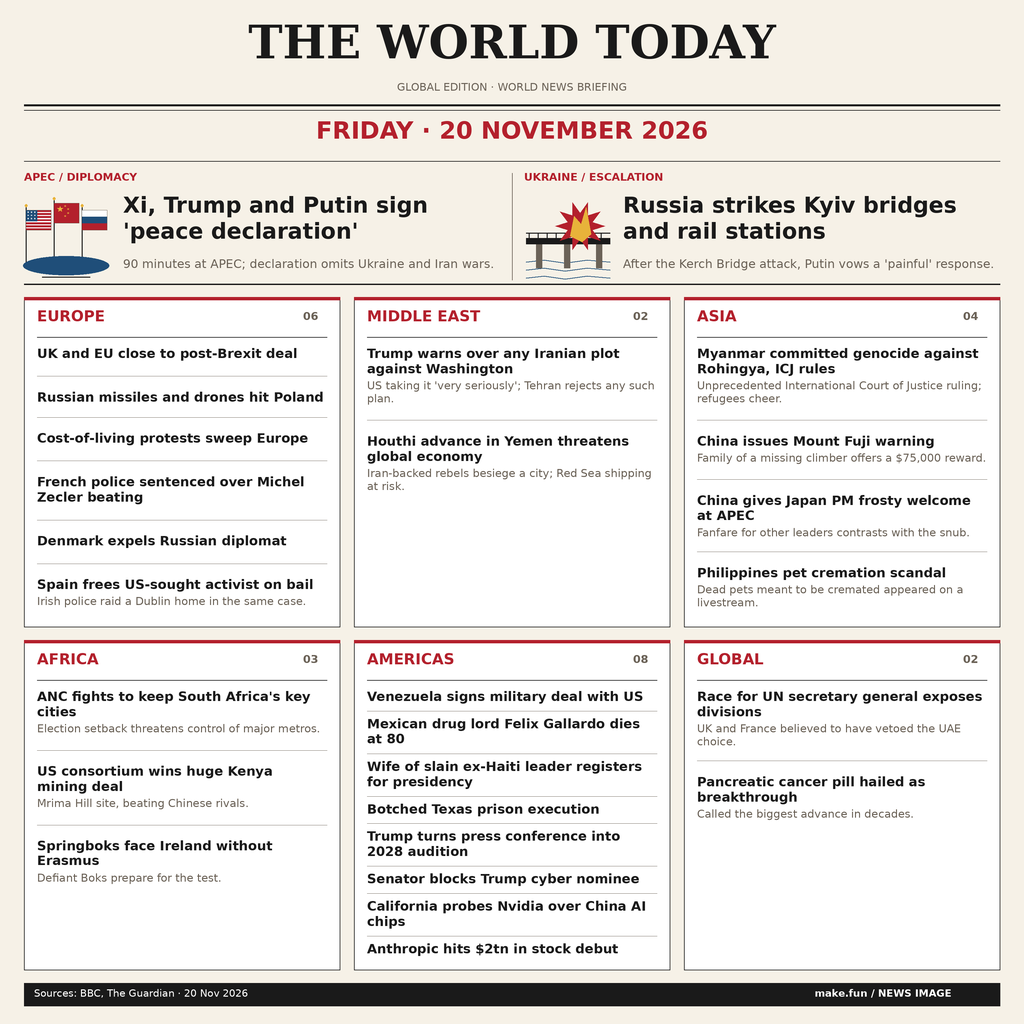
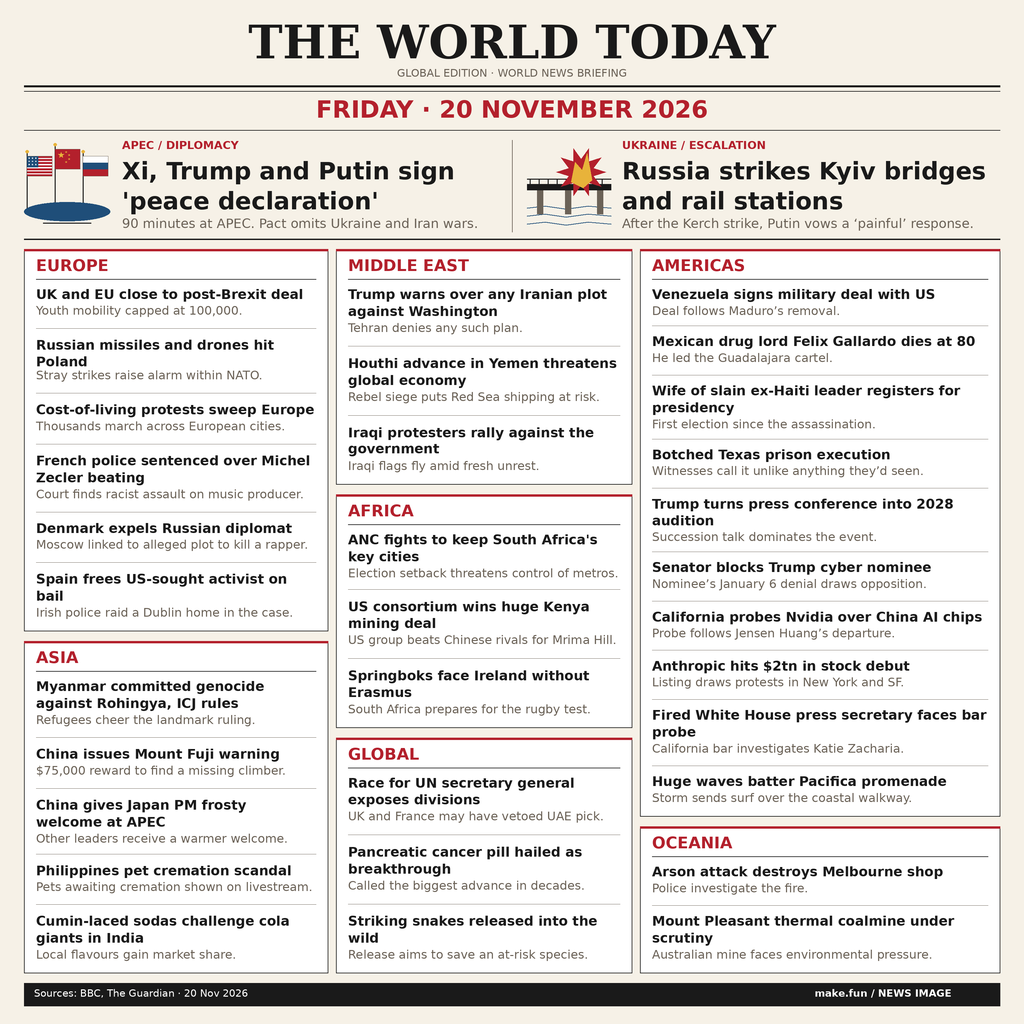
Rebalance masonry, raise type floor (decks 12px+), 34 stories 7 regions, aligned rhythm

Changed region(s): [[0.0, 0.0625, 0.9688, 0.9688]]

diff --git a/generate.py b/generate.py
@@ -14,51 +14,76 @@ GOLD, WHITE = "#E8B33A", "#FFFFFF"
 FONT_DIR = Path("/usr/share/fonts/truetype/dejavu")
 FONTS = {"serif": "DejaVuSerif-Bold.ttf", "bold": "DejaVuSans-Bold.ttf", "regular": "DejaVuSans.ttf"}
 
-# Transcribed from the supplied stories.txt, preserving every regional headline.
-# Embedding the brief keeps regeneration independent of external files or networks.
+# Headlines follow the supplied stories.txt. Decks are edited to fit a single
+# line while retaining a concrete detail from each story.
 STORIES = {
     "LEAD": [
-        ("Xi, Trump and Putin sign 'peace declaration'", "First US-China-Russia trilateral, 90 minutes in Shenzhen at APEC; declaration omits Ukraine and Iran wars."),
-        ("Russia strikes Kyiv bridges and rail stations", "One of its biggest air attacks, days after Ukraine badly damaged the Crimean (Kerch) Bridge; Putin vows a 'painful' response."),
+        ("Xi, Trump and Putin sign 'peace declaration'", "90 minutes at APEC. Pact omits Ukraine and Iran wars."),
+        ("Russia strikes Kyiv bridges and rail stations", "After the Kerch strike, Putin vows a ‘painful’ response."),
     ],
     "EUROPE": [
-        ("UK and EU close to post-Brexit deal", "100,000 youth-mobility cap agreed; Burnham says it 'is for you', Badenoch calls it unfair."),
-        ("Russian missiles and drones hit Poland", "Stray strikes during attacks on Ukraine raise NATO alarm."),
-        ("Cost-of-living protests sweep Europe", "Thousands marched across European cities on Friday."),
-        ("French police sentenced over Michel Zecler beating", "Court finds racist assault on the Black music producer."),
-        ("Denmark expels Russian diplomat", "Alleged Moscow link to an attempted killing of a rapper."),
-        ("Spain frees US-sought activist on bail", "Irish police raid a Dublin home in the same case."),
+        ("UK and EU close to post-Brexit deal", "Youth mobility capped at 100,000."),
+        ("Russian missiles and drones hit Poland", "Stray strikes raise alarm within NATO."),
+        ("Cost-of-living protests sweep Europe", "Thousands march across European cities."),
+        ("French police sentenced over Michel Zecler beating", "Court finds racist assault on music producer."),
+        ("Denmark expels Russian diplomat", "Moscow linked to alleged plot to kill a rapper."),
+        ("Spain frees US-sought activist on bail", "Irish police raid a Dublin home in the case."),
     ],
     "MIDDLE EAST": [
-        ("Trump warns over any Iranian plot against Washington", "US taking it 'very seriously'; Tehran rejects any such plan."),
-        ("Houthi advance in Yemen threatens global economy", "Iran-backed rebels besiege a city; Red Sea shipping at risk."),
+        ("Trump warns over any Iranian plot against Washington", "Tehran denies any such plan."),
+        ("Houthi advance in Yemen threatens global economy", "Rebel siege puts Red Sea shipping at risk."),
+        ("Iraqi protesters rally against the government", "Iraqi flags fly amid fresh unrest."),
     ],
     "ASIA": [
-        ("Myanmar committed genocide against Rohingya, ICJ rules", "Unprecedented International Court of Justice ruling; refugees cheer."),
-        ("China issues Mount Fuji warning", "Family of a missing climber offers a $75,000 reward."),
-        ("China gives Japan PM frosty welcome at APEC", "Fanfare for other leaders contrasts with the snub."),
-        ("Philippines pet cremation scandal", "Dead pets meant to be cremated appeared on a livestream."),
+        ("Myanmar committed genocide against Rohingya, ICJ rules", "Refugees cheer the landmark ruling."),
+        ("China issues Mount Fuji warning", "$75,000 reward to find a missing climber."),
+        ("China gives Japan PM frosty welcome at APEC", "Other leaders receive a warmer welcome."),
+        ("Philippines pet cremation scandal", "Pets awaiting cremation shown on livestream."),
+        ("Cumin-laced sodas challenge cola giants in India", "Local flavours gain market share."),
     ],
     "AFRICA": [
-        ("ANC fights to keep South Africa's key cities", "Election setback threatens control of major metros."),
-        ("US consortium wins huge Kenya mining deal", "Mrima Hill site, beating Chinese rivals."),
-        ("Springboks face Ireland without Erasmus", "Defiant Boks prepare for the test."),
+        ("ANC fights to keep South Africa's key cities", "Election setback threatens control of metros."),
+        ("US consortium wins huge Kenya mining deal", "US group beats Chinese rivals for Mrima Hill."),
+        ("Springboks face Ireland without Erasmus", "South Africa prepares for the rugby test."),
     ],
     "AMERICAS": [
-        ("Venezuela signs military deal with US", "Less than a year after Maduro's removal."),
-        ("Mexican drug lord Felix Gallardo dies at 80", "The 'Boss of Bosses' of the Guadalajara cartel."),
+        ("Venezuela signs military deal with US", "Deal follows Maduro’s removal."),
+        ("Mexican drug lord Felix Gallardo dies at 80", "He led the Guadalajara cartel."),
         ("Wife of slain ex-Haiti leader registers for presidency", "First election since the assassination."),
-        ("Botched Texas prison execution", "Onlookers say it was like nothing they had seen."),
-        ("Trump turns press conference into 2028 audition", "Succession talk dominates the White House event."),
-        ("Senator blocks Trump cyber nominee", "Over January 6 denial; cyber director ousted after tech outages."),
-        ("California probes Nvidia over China AI chips", "Follows Jensen Huang's departure."),
-        ("Anthropic hits $2tn in stock debut", "Record AI listing draws protests in New York and San Francisco."),
+        ("Botched Texas prison execution", "Witnesses call it unlike anything they’d seen."),
+        ("Trump turns press conference into 2028 audition", "Succession talk dominates the event."),
+        ("Senator blocks Trump cyber nominee", "Nominee’s January 6 denial draws opposition."),
+        ("California probes Nvidia over China AI chips", "Probe follows Jensen Huang’s departure."),
+        ("Anthropic hits $2tn in stock debut", "Listing draws protests in New York and SF."),
+        ("Fired White House press secretary faces bar probe", "California bar investigates Katie Zacharia."),
+        ("Huge waves batter Pacifica promenade", "Storm sends surf over the coastal walkway."),
+    ],
+    "OCEANIA": [
+        ("Arson attack destroys Melbourne shop", "Police investigate the fire."),
+        ("Mount Pleasant thermal coalmine under scrutiny", "Australian mine faces environmental pressure."),
     ],
     "GLOBAL": [
-        ("Race for UN secretary general exposes divisions", "UK and France believed to have vetoed the UAE choice."),
+        ("Race for UN secretary general exposes divisions", "UK and France may have vetoed UAE pick."),
         ("Pancreatic cancer pill hailed as breakthrough", "Called the biggest advance in decades."),
+        ("Striking snakes released into the wild", "Release aims to save an at-risk species."),
     ],
 }
+
+HEADLINE_SIZE = 13.5
+DECK_SIZE = 12
+LEADING = 1.25
+CARD_HEADER = 40
+CARD_BOTTOM = 12
+CARD_GAP = 10
+CARD_INSET = 12
+MIN_ITEM_GAP = 20
+MAX_ITEM_GAP = 24
+# Give the ten-story Americas card more measure to reduce headline wraps.
+COLUMNS = (
+    (304, ("EUROPE", "ASIA")),
+    (296, ("MIDDLE EAST", "AFRICA", "GLOBAL")),
+    (360, ("AMERICAS", "OCEANIA")),
+)
 
 
 @lru_cache(maxsize=None)
@@ -72,7 +97,8 @@ class FrontPage:
         self.draw = ImageDraw.Draw(self.image)
         self.text_bounds = []
         self.shown = []
-        self.region_fonts = {}
+        self.story_type = []
+        self.column_metrics = []
 
     def rectangle(self, box, fill, outline=None, width=1):
         self.draw.rectangle(tuple(round(n * SCALE) for n in box), fill=fill,
@@ -102,7 +128,7 @@ class FrontPage:
                 current = candidate
         return lines + ([current] if current else [])
 
-    def measure(self, lines, size, style, leading=1.18):
+    def measure(self, lines, size, style, leading=LEADING):
         if not lines:
             return 0
         glyph_height = max(self.draw.textbbox((0, 0), line, font=font(size, style), anchor="lt")[3]
@@ -123,13 +149,13 @@ class FrontPage:
         lines, fitted = self.fit(text, width, height, size, style, max_lines, minimum)
         for i, line in enumerate(lines):
             dx = (width - self.width(line, fitted, style)) / 2 if align == "center" else 0
-            xy = ((x + dx) * SCALE, (y + i * fitted * 1.18) * SCALE)
+            xy = ((x + dx) * SCALE, (y + i * fitted * LEADING) * SCALE)
             bounds = self.draw.textbbox(xy, line, font=font(fitted, style), anchor="lt")
             assert bounds[0] >= x * SCALE - 1 and bounds[2] <= (x + width) * SCALE + 1
             assert bounds[1] >= y * SCALE - 1 and bounds[3] <= (y + height) * SCALE + 1
             self.text_bounds.append(tuple(n / SCALE for n in bounds))
             self.draw.text(xy, line, font=font(fitted, style), fill=color, anchor="lt")
-        return self.measure(lines, fitted, style)
+        return fitted
 
     def star(self, x, y, radius, color=GOLD):
         self.polygon([(x + cos(-pi / 2 + i * pi / 5) * radius * (1 if i % 2 == 0 else .42),
@@ -177,80 +203,75 @@ class FrontPage:
                       (x + 60, y + 10), (x + 65, y + 37), (x + 56, y + 45)], GOLD)
 
     def lead(self, index, x, y, width):
-        headline, _ = STORIES["LEAD"][index]
+        headline, deck = STORIES["LEAD"][index]
         self.text("APEC / DIPLOMACY" if index == 0 else "UKRAINE / ESCALATION",
-                  (x, y, width, 14), 10.5, "bold", RED, max_lines=1)
-        (self.flags if index == 0 else self.bridge)(x + 2, y + 24)
-        self.text(headline, (x + 99, y + 23, width - 99, 55), 22, "bold", max_lines=2, minimum=17)
-        caption = ("90 minutes at APEC; declaration omits Ukraine and Iran wars." if index == 0 else
-                   "After the Kerch Bridge attack, Putin vows a 'painful' response.")
-        self.text(caption, (x + 99, y + 86, width - 99, 18), 13, color=GREY, max_lines=1, minimum=10)
+                  (x + 98, y, width - 98, 14), 11, "bold", RED, max_lines=1)
+        (self.flags if index == 0 else self.bridge)(x + 3, y + 2)
+        head_size = self.text(headline, (x + 98, y + 20, width - 98, 55),
+                              24, "bold", minimum=23)
+        deck_size = self.text(deck, (x + 98, y + 77, width - 98, 15),
+                              13, color=GREY, max_lines=1, minimum=12)
         self.shown.append(headline)
+        self.story_type.append((head_size, deck_size))
 
-    def region(self, label, box):
-        x, y, width, height = box
-        items = STORIES[label]
-        self.rectangle((x, y, x + width, y + height), WHITE, INK, .7)
-        self.rectangle((x, y, x + width, y + 3), RED)
-        self.text(label, (x + 13, y + 13, width - 65, 22), 15, "bold", RED, max_lines=1)
-        self.text(f"{len(items):02d}", (x + width - 37, y + 15, 24, 18), 11, "bold", GREY, max_lines=1)
-        self.line([(x + 13, y + 40), (x + width - 13, y + 40)], INK, .6)
-        inner_width = width - 26
-        available = height - 65
-        # Start with every caption. Remove caption lines evenly before shrinking
-        # headlines, keeping all stories and a six-pixel inter-brief gutter.
-        for headline_size in (13, 12.5, 12, 11.5, 11):
-            heads = [self.fit(h, inner_width, 40, headline_size, "bold", 2, headline_size)[0] for h, _ in items]
-            head_heights = [self.measure(lines, headline_size, "bold") for lines in heads]
-            for caption_limit in (3, 2, 1, 0):
-                captions = [self.wrap(c, inner_width, 11, "regular") for _, c in items]
-                # Captions are included whole or omitted; never silently truncated.
-                captions = [lines if len(lines) <= caption_limit else [] for lines in captions]
-                heights = [hh + (5 + self.measure(cc, 11, "regular") if cc else 0)
-                           for hh, cc in zip(head_heights, captions)]
-                total = sum(heights) + (len(items) - 1) * 13
-                if total <= available:
-                    break
-            else:
-                continue
-            break
-        else:
-            raise ValueError(f"Regional card cannot fit all stories: {label}")
-        self.region_fonts[label] = headline_size
-        cursor = y + 51
-        # A little extra leading is useful in sparse regions without creating
-        # giant empty cells; dense regions retain the exact minimum gutter.
-        gap = 13 + min(18, (available - total) / max(1, len(items) - 1))
-        for i, ((headline, caption), hh, cc, item_height) in enumerate(zip(items, head_heights, captions, heights)):
-            self.text(headline, (x + 13, cursor, inner_width, hh + .4), headline_size,
-                      "bold", max_lines=2, minimum=headline_size)
-            if cc:
-                self.text(caption, (x + 13, cursor + hh + 5, inner_width,
-                                   self.measure(cc, 11, "regular") + .4), 11,
-                          color=GREY, max_lines=3, minimum=11)
-            self.shown.append(headline)
-            cursor += item_height
-            assert cursor <= y + height - 13, (label, headline, cursor)
-            if i < len(items) - 1:
-                self.line([(x + 13, cursor + gap / 2), (x + width - 13, cursor + gap / 2)], GREY, .35)
-                cursor += gap
+    def brief_heights(self, headline, deck, width):
+        lines, _ = self.fit(headline, width, 48, HEADLINE_SIZE, "bold", 3, HEADLINE_SIZE)
+        deck_lines, _ = self.fit(deck, width, 16, DECK_SIZE, max_lines=1, minimum=DECK_SIZE)
+        return self.measure(lines, HEADLINE_SIZE, "bold"), self.measure(deck_lines, DECK_SIZE, "regular")
+
+    def region_column(self, labels, x, top, width, bottom):
+        inner_width = width - 2 * CARD_INSET
+        cards = [(label, [self.brief_heights(*story, inner_width) for story in STORIES[label]])
+                 for label in labels]
+        separators = sum(len(rows) - 1 for _, rows in cards)
+        fixed = (CARD_HEADER + CARD_BOTTOM) * len(cards) + CARD_GAP * (len(cards) - 1)
+        fixed += sum(h + 4 + d for _, rows in cards for h, d in rows)
+        gap = (bottom - top - fixed) / separators
+        if not MIN_ITEM_GAP <= gap <= MAX_ITEM_GAP:
+            raise ValueError(f"Column {labels} needs a {gap:.1f}px item gap to fill {bottom - top}px")
+        y = top
+        for label, rows in cards:
+            height = CARD_HEADER + CARD_BOTTOM + sum(h + 4 + d for h, d in rows) + gap * (len(rows) - 1)
+            self.rectangle((x, y, x + width, y + height), WHITE, INK, .7)
+            self.rectangle((x, y, x + width, y + 2), RED)
+            left, right = x + CARD_INSET, x + width - CARD_INSET
+            self.text(label, (left, y + 10, inner_width, 18), 16, "bold", RED, max_lines=1)
+            self.line([(left, y + 30), (right, y + 30)], INK, .6)
+            cursor = y + CARD_HEADER
+            for i, ((headline, deck), (head_h, deck_h)) in enumerate(zip(STORIES[label], rows)):
+                head_size = self.text(headline, (left, cursor, inner_width, head_h + .4),
+                                      HEADLINE_SIZE, "bold", max_lines=3, minimum=HEADLINE_SIZE)
+                cursor += head_h + 4
+                deck_size = self.text(deck, (left, cursor, inner_width, deck_h + .4),
+                                      DECK_SIZE, color=GREY, max_lines=1, minimum=DECK_SIZE)
+                cursor += deck_h
+                self.shown.append(headline)
+                self.story_type.append((head_size, deck_size))
+                if i < len(rows) - 1:
+                    self.line([(left, cursor + gap / 2), (right, cursor + gap / 2)], GREY, .45)
+                    cursor += gap
+            assert abs(y + height - cursor - CARD_BOTTOM) < .01, label
+            y += height + CARD_GAP
+        assert abs(y - CARD_GAP - bottom) < .01
+        self.column_metrics.append(gap / 2)
 
     def render(self):
         self.text("THE WORLD TODAY", (24, 24, 976, 57), 46, "serif", max_lines=1, align="center")
-        self.text("GLOBAL EDITION · WORLD NEWS BRIEFING", (24, 83, 976, 15),
+        self.text("GLOBAL EDITION · WORLD NEWS BRIEFING", (24, 69, 976, 15),
                   10.5, color=GREY, max_lines=1, align="center")
-        self.line([(24, 105), (1000, 105)], INK, 2)
-        self.line([(24, 110), (1000, 110)], INK, .6)
-        self.text("FRIDAY · 20 NOVEMBER 2026", (24, 121, 976, 32),
+        self.line([(24, 86), (1000, 86)], INK, 2)
+        self.line([(24, 91), (1000, 91)], INK, .6)
+        self.text("FRIDAY · 20 NOVEMBER 2026", (24, 100, 976, 28),
                   24, "bold", RED, max_lines=1, align="center")
-        self.line([(24, 161), (1000, 161)], INK, .6)
-        self.lead(0, 24, 173, 476)
-        self.lead(1, 524, 173, 476)
-        self.line([(512, 173), (512, 280)], GREY, .5)
-        self.line([(24, 284), (1000, 284)], INK, 1.5)
-        regions = ("EUROPE", "MIDDLE EAST", "ASIA", "AFRICA", "AMERICAS", "GLOBAL")
-        for i, region in enumerate(regions):
-            self.region(region, (24 + (i % 3) * 330, 297 + (i // 3) * 343, 316, 330))
+        self.line([(24, 130), (1000, 130)], INK, .6)
+        self.lead(0, 24, 141, 476)
+        self.lead(1, 524, 141, 476)
+        self.line([(512, 140), (512, 232)], GREY, .5)
+        self.line([(24, 239), (1000, 239)], INK, 1.5)
+        x = 24
+        for width, labels in COLUMNS:
+            self.region_column(labels, x, 249, width, 973)
+            x += width + 8
         self.rectangle((24, 983, 1000, 1006), INK)
         self.text("Sources: BBC, The Guardian · 20 Nov 2026", (34, 989, 700, 13),
                   10, color=WHITE, max_lines=1)
@@ -258,7 +279,7 @@ class FrontPage:
                   10, "bold", WHITE, max_lines=1, align="center")
         expected = [headline for group in STORIES.values() for headline, _ in group]
         assert sorted(self.shown) == sorted(expected), "Missing or duplicated news stories"
-        assert len(self.shown) == 27
+        assert len(self.shown) == len(self.story_type) == 34
         # Check actual glyph rectangles, including lines in different text blocks.
         for i, a in enumerate(self.text_bounds):
             for b in self.text_bounds[i + 1:]:
@@ -278,7 +299,9 @@ def main():
     assert byte_count < 1_048_576, f"PNG exceeds size budget: {byte_count}"
     print(f"entry.png: 1024x1024 PNG, {byte_count:,} bytes; {len(page.shown)} stories")
     print("All headlines present; glyph bounds and non-overlap checks passed.")
-    print("Regional headline sizes:", page.region_fonts)
+    head_min, deck_min = map(min, zip(*page.story_type))
+    print(f"Minimum type: {head_min:g}px headlines, {deck_min:g}px decks")
+    print("Padding on each side of separators:", [round(n, 1) for n in page.column_metrics])
 
 
 if __name__ == "__main__":
